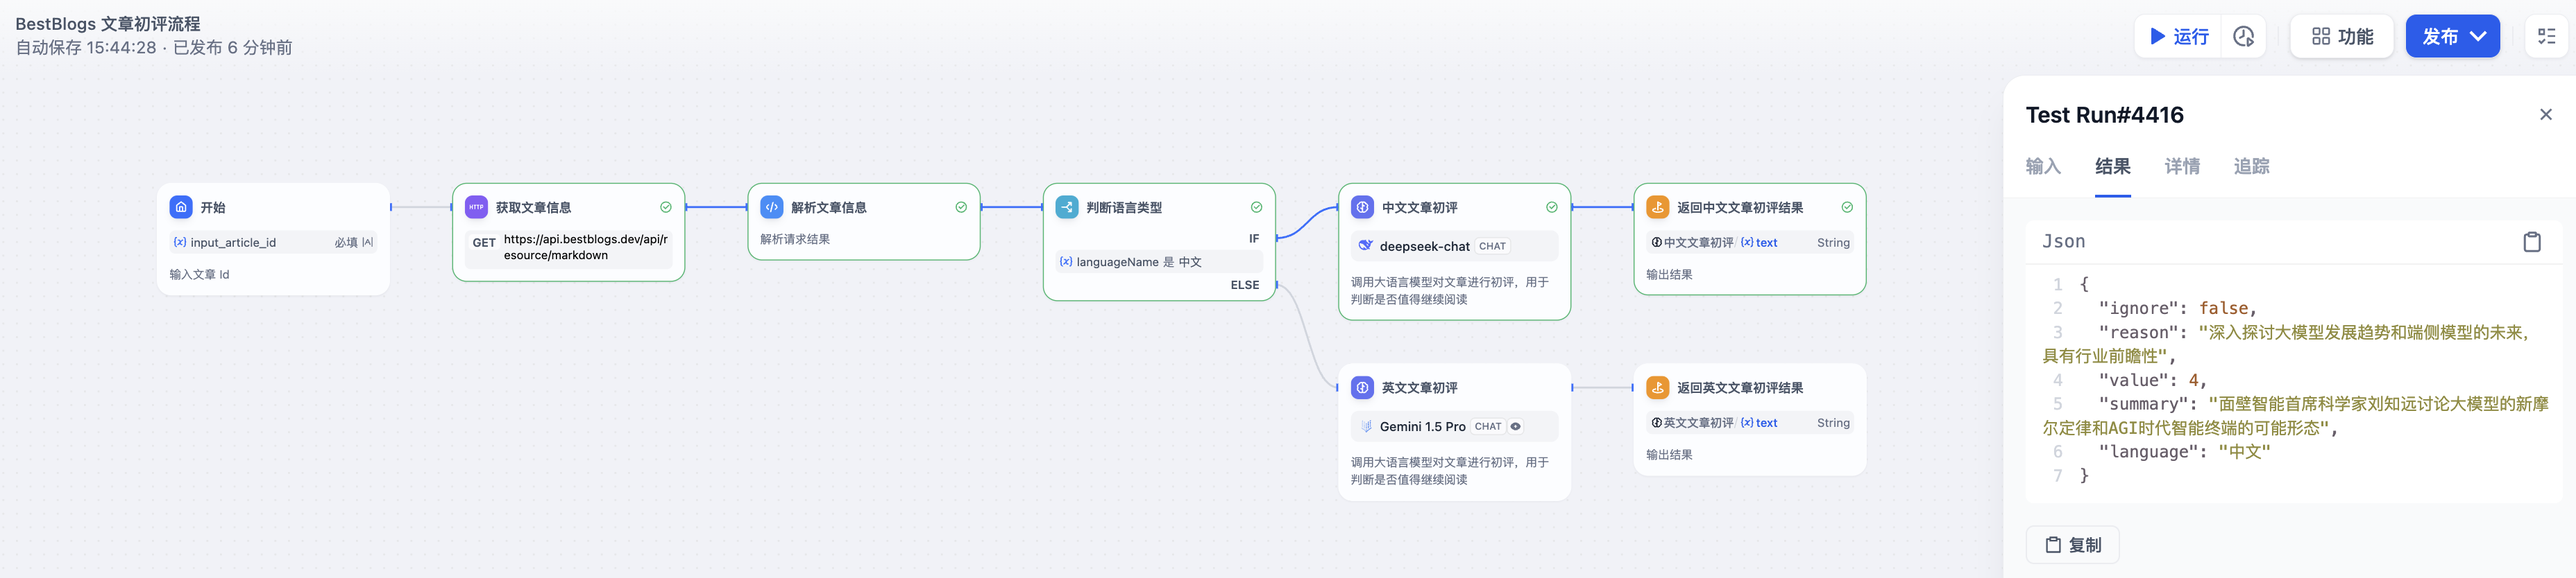
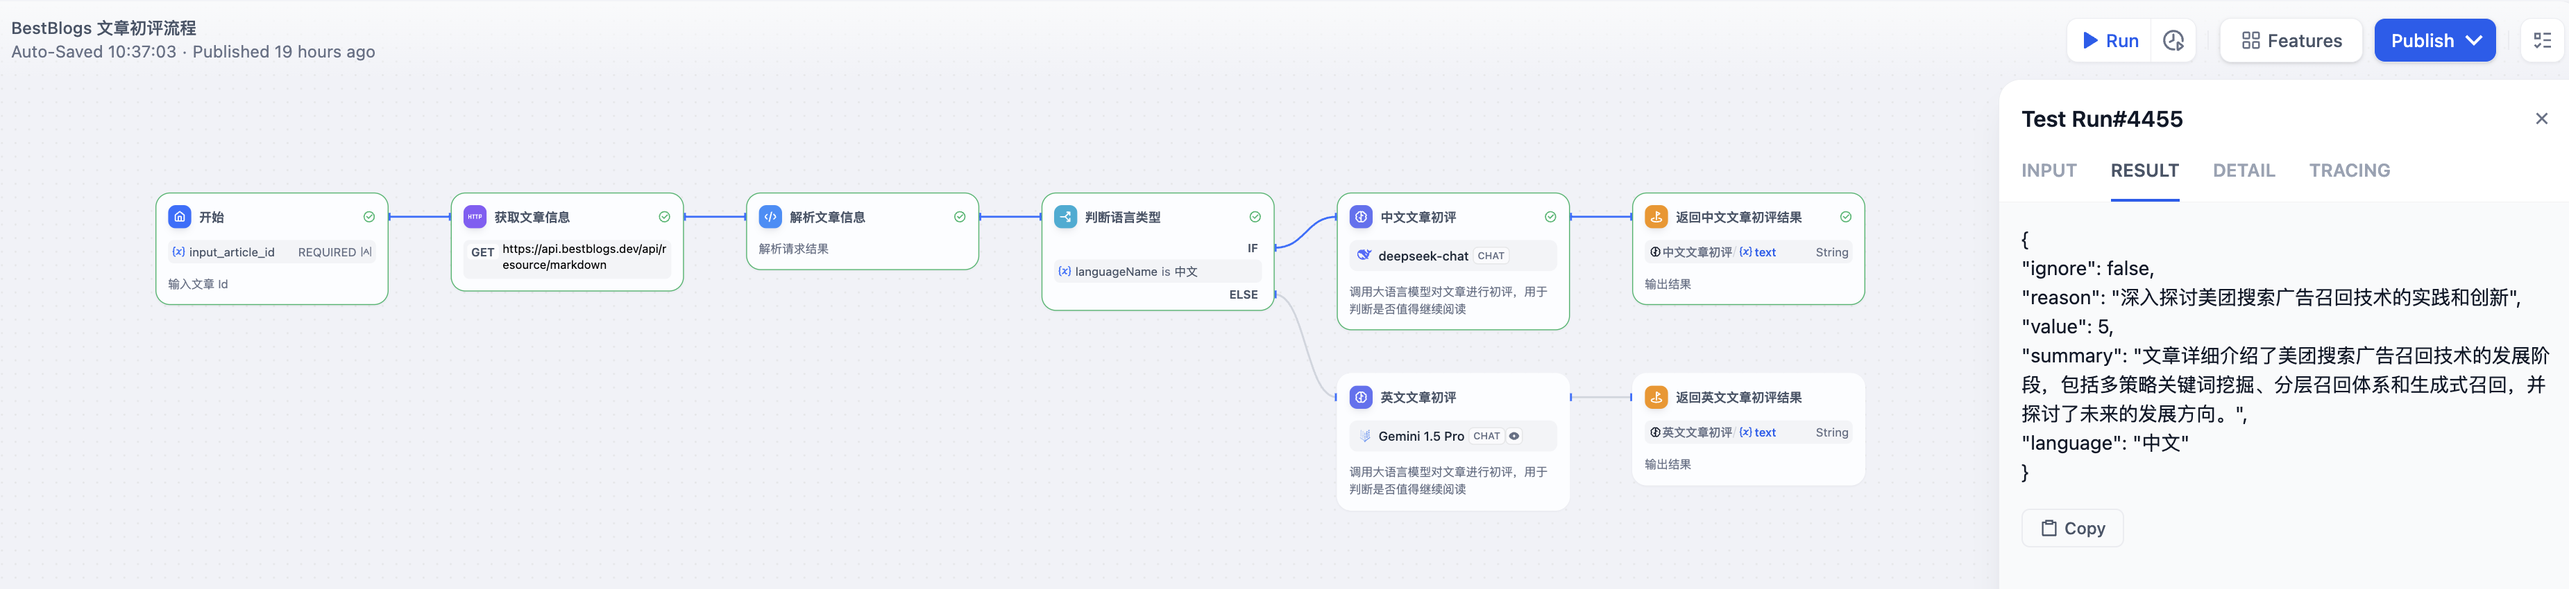
add doc

diff --git a/flows/Dify/BestBlogs.dev 使用 Dify Workflow 实现文章自动化分析.md b/flows/Dify/BestBlogs.dev 使用 Dify Workflow 实现文章自动化分析.md
@@ -39,16 +39,57 @@
 
 ### 文章初评流程
 
-![Filter Article Workflow](./flowImages/filter_article_flow_chinese_article.png)
+![文章初评流程](./flowImages/filter_article_flow_chinese_article_result.png)
+
+流程说明：
+
+- 为了便于测试和接口调用，流程的输入为网站的文章 ID，然后通过 Workflow 内置的 HTTP 调用节点和代码节点，调用网站的 API 获取文章的元数据（标题、来源、链接、语言等）和全文内容。
+- 为中文和英文文章采用不同的模型和提示词，可以更加灵活的调整和优化。
+- 文章初评 LLM 节点通过 CO-STAR 提示词框架定义上下文、目标、、分析步骤、输入输出格式，提供输出示例，完整的提示词可以在上述项目地址查看。
+- 网站应用通过 Dify Workflow 开放的 API 传入文章 ID，获取文章的初评结果，根据 ignore 和 value 属性判断是否继续往下处理。
+
+![流程调用代码](./flowImages/run_flow_by_java.png)
 
 ### 文章分析流程
 
+![文章分析流程](./flowImages/analyze_article_flow_long_article_result2.png)
+
+流程说明：
+
+- 同初评流程，分析流程的输入也是网站的文章 ID，然后通过 Workflow 内置的 HTTP 调用节点和代码节点，调用网站的 API 获取文章的元数据（标题、来源、链接、语言等）和全文内容。
+- 为了能不遗漏各个段落的关键信息，分析流程首先判断文章的长度，如果超过 6000 个字符则进行分段处理，否则直接对全文进行分析。
+- 分析的内容输出主要包括一句话总结、文章摘要、文章关键词、主要观点和文章金句等，方便读者快速了解文章内容。
+- 这里运用了 Workflow 中的分支、迭代、变量聚合等节点，使得我们能对流程进行灵活控制，对于不同的分支处理结果，可以采用变量聚合将全文分析的内容归集为一个，便于后续节点处理。
+- 随后是领域划分和标签生成节点，通过大语言模型对文章内容进行分类，生成文章所属领域和标签列表，这里的标签主要包括主题、技术、领域、应用、产品、公司、平台、名人、趋势等，便于后续文章的组织，增强后续搜索和推荐的实现。
+- 再之后的文章评分节点，通过大语言模型对文章内容进行评分，主要包括内容深度、写作质量、实用性、相关性等多维度评估，生成文章的评分，便于读者快速筛选优质文章。
+- 然后是检查反思节点，输入为文章元数据和全文内容，以及分析结果、领域和标签列表、评分等，要求大语言模型扮演技术文章评审专家，按照全面性、准确性、一致性等原则，对前述输出进行检查，输出检查结果和反思内容。
+- 最后是基于检查反思结果的优化改进节点，要求大语言模分析检查和分析结果，并再次确认输出格式和语言，输出最终的分析结果和更新原因。
 
 ### 分析结果翻译流程
 
+![分析结果翻译流程](./flowImages/translate_article_flow_result.png)
+
+流程说明：
+
+- 分析结果翻译流程的输入为网站的文章 ID，然后通过 Workflow 内置的 HTTP 调用节点和代码节点，调用网站的 API 获取文章的元数据（标题、来源、链接、语言、目标语言等）、全文内容和分析结果。
+- 翻译流程采用了 *初次翻译 -- 检查反思 -- 优化改进，意译* 三段式翻译流程，从而让翻译更加符合目标语言的表达习惯。
 
 ## 运行效果
 
+- 目前网站已经完成灰度，全部文章采用 Dify Workflow 实现自动化分析，接口运行稳定。
+- 相比于之前采用单个提示词的方式，采用 Workflow 分析文章结果比原先更好，摘要内容更加全面，还有主要观点和文章金句作为参考，文章评分更加标准化。
+- 另外，采用 Workflow 的方式能够快速的调整提示词，详细的运行日志能够及时定位和改进。
+
+![运行日志](./flowImages/ task_logs.png)
 
 ## 总结与展望
 
+本文主要介绍了 BestBlogs.dev 使用 Dify Workflow 实现文章自动化分析的背景、原因、流程和效果，主要包括文章初评、文章分析和分析结果翻译三个流程，通过大语言模型对文章内容进行摘要、分类、评分和翻译，提高了文章分析的效率和质量，为读者提供更好的阅读体验。
+
+对于 Dify Workflow 的使用感受：
+
+- 使用起来画布整体体验是非常流畅和自然的，对于我来说基本没有什么上手成本；
+- Workflow 对测试运行和追踪功能非常棒，我可以不断的调试提示词来改进效果，中间的每一步详细的输出可以快速识别待改进的地方；
+- 模型的接入非常丰富，基本涵盖了市场上主流的模型，我可以快速的切换各个模型对比输出效果；
+- 开源，支持自部署，完善的日志，这一点对于网站使用非常重要，不用依赖外部服务的稳定性，以及担心数据泄漏等隐私问题。
+- 当然，Dify 本身还在不断演进和优化，对于历史版本管理、并行执行、JSON 输出等功能还有待完善，希望未来能够更加强大和易用。
